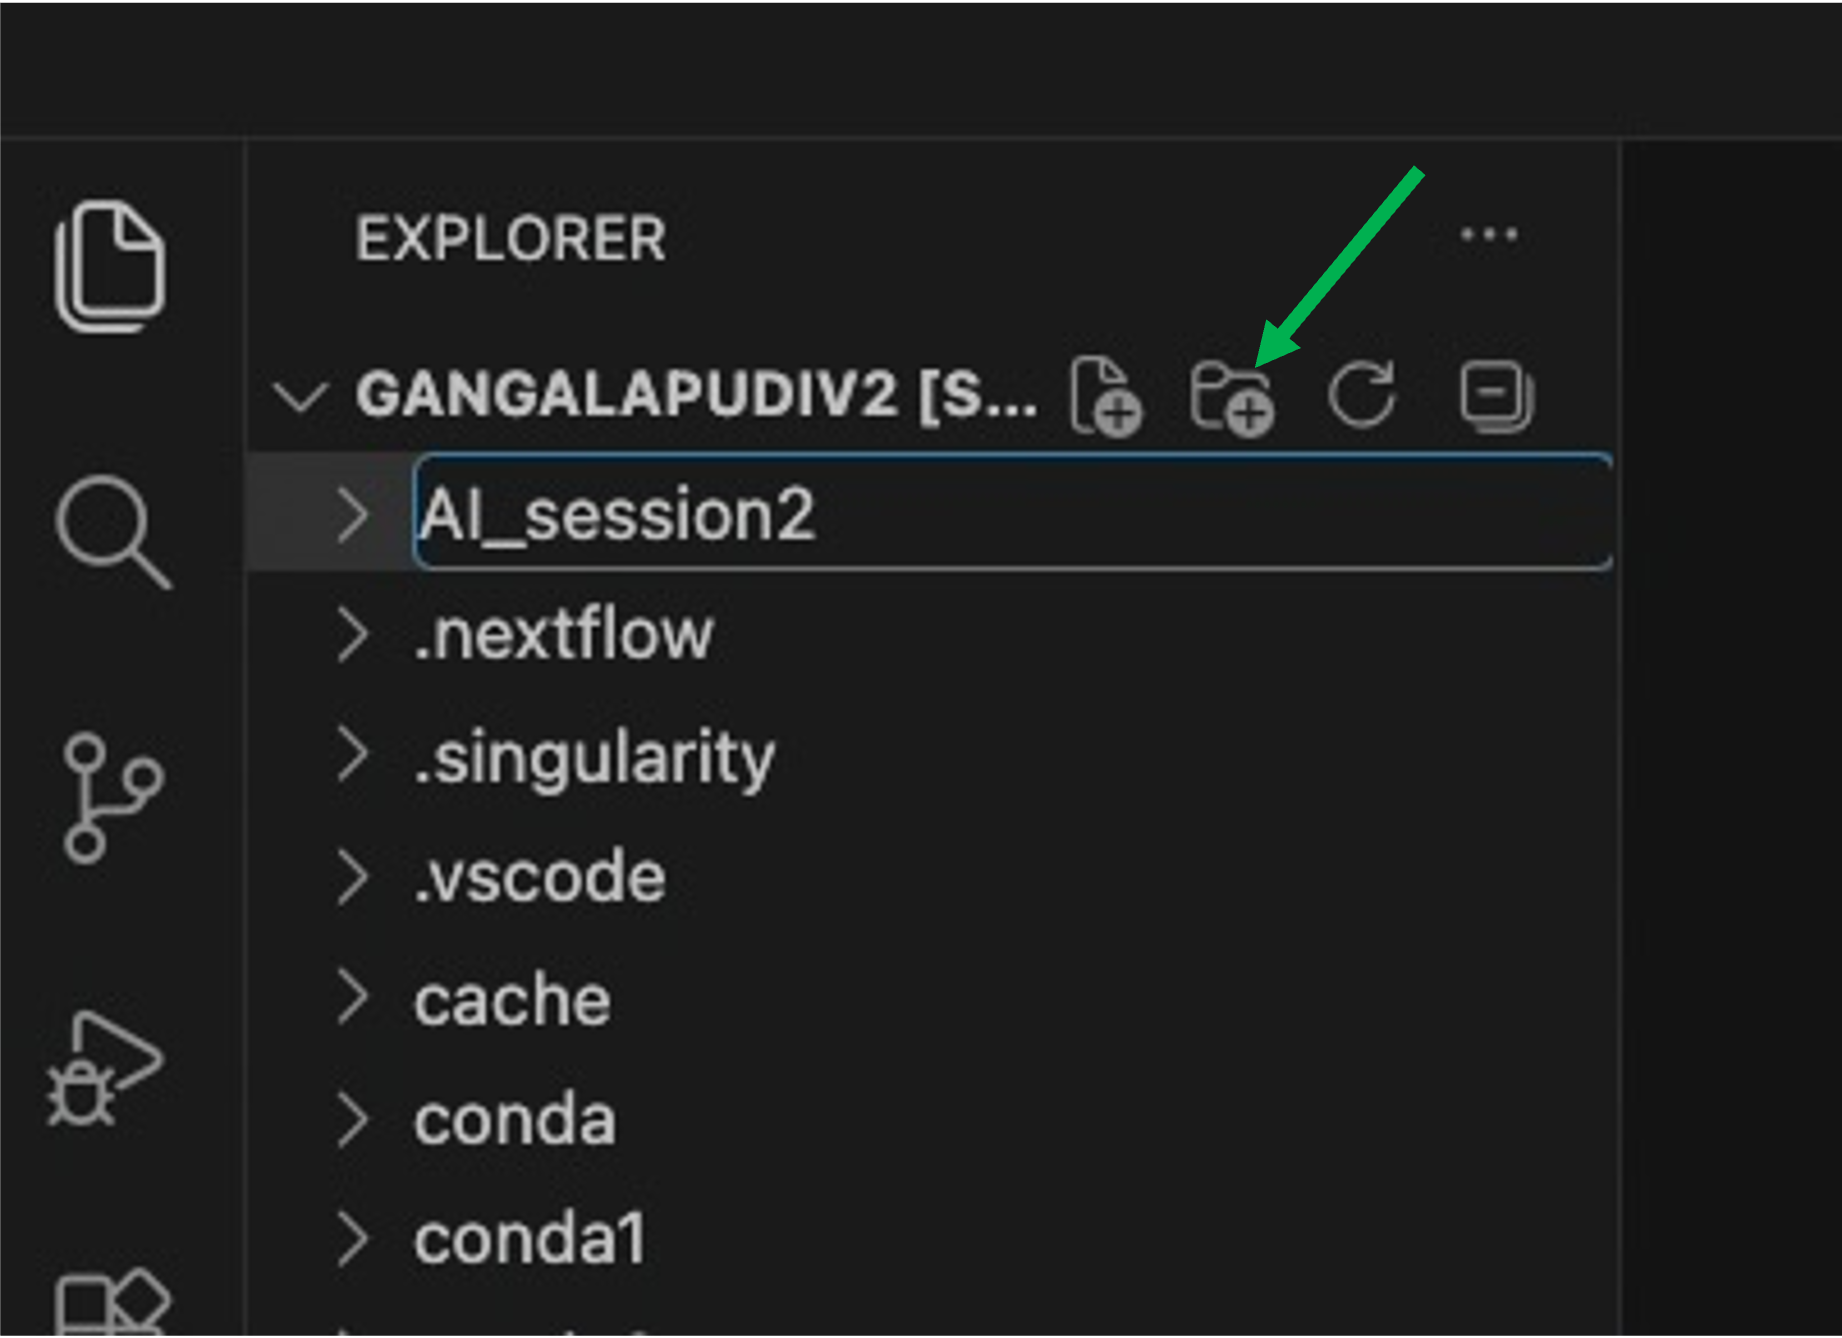
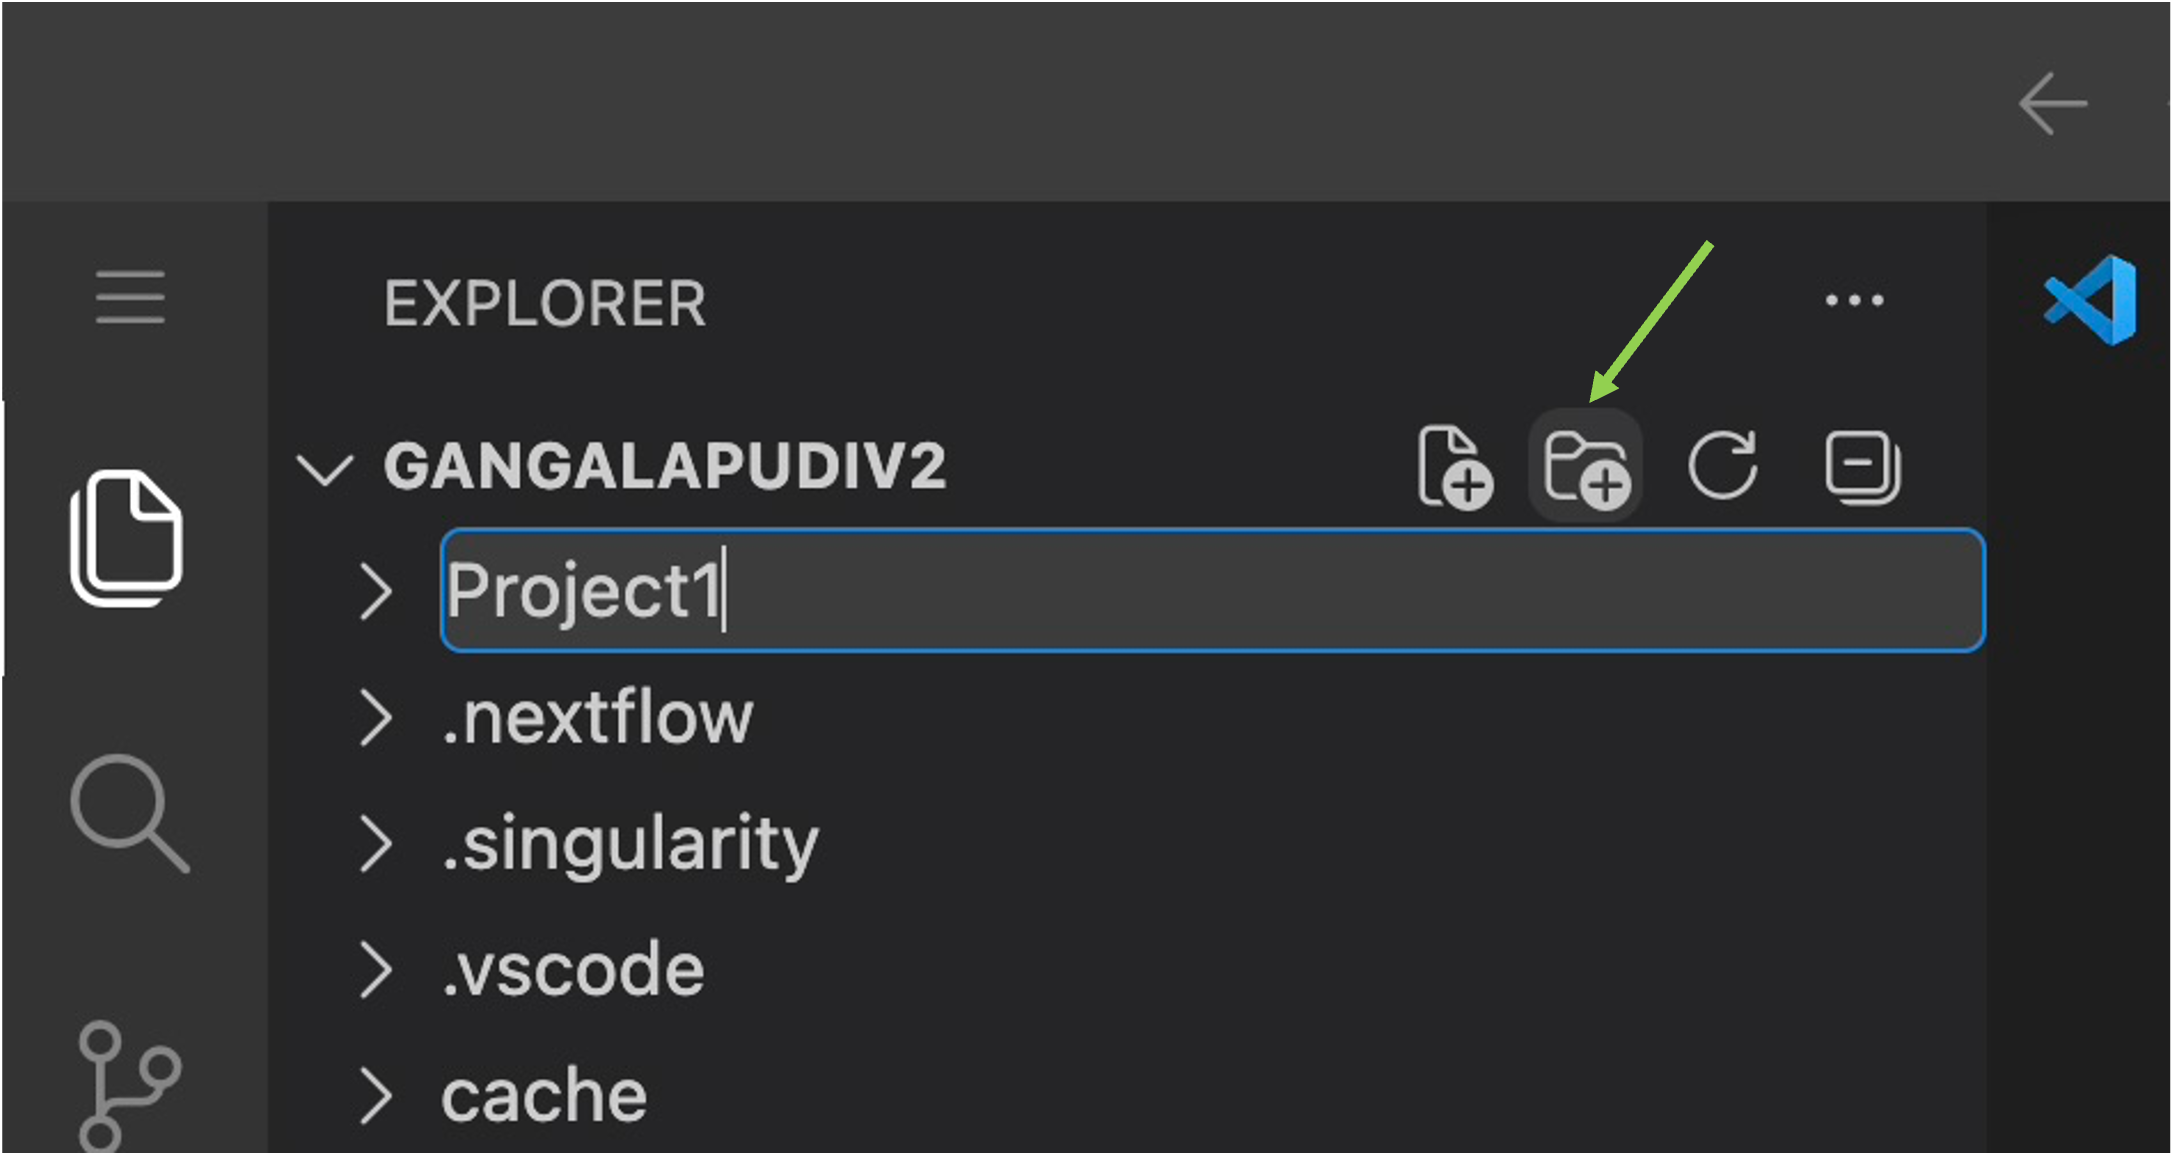
Update images

diff --git a/walkthrough.md b/walkthrough.md
@@ -113,7 +113,7 @@ Once there, change directory (cd) to your data directory.
 
 ```bash
 cd /data/<your-username>/<project-subfolder> 
-# eg: cd /data/gangalapudiv2/AI_session2
+# eg: cd /data/gangalapudiv2/Project1
 ```
 
 You are now "sitting" in the same location in your login node terminal and your VS Code terminal. You can confirm this with a "print working directory" statement:
@@ -176,7 +176,7 @@ Review the R script to make sure you understand it, then run it.
 
 ```bash
 module load R 
-Rscript AI_training_session2/run_deseq2.R
+Rscript run_deseq2.R
 ```
 
 Unlike on your local machine, the Biowulf staff have already installed R. You only need to load the software using the ```module load``` statement.